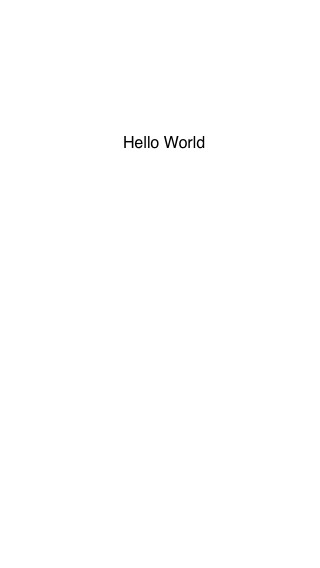
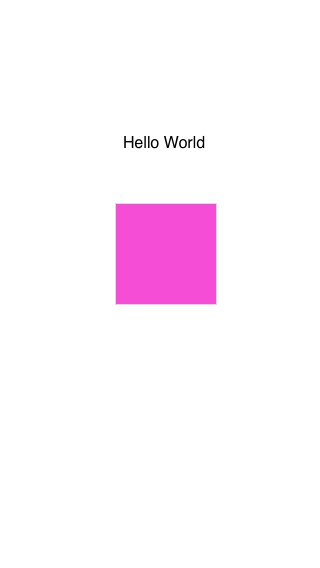
Index update

Changed region(s): [[0.3438, 0.3592, 0.6875, 0.5387]]

diff --git a/Index.hyperesources/index_hype_generated_script.js b/Index.hyperesources/index_hype_generated_script.js
@@ -2,5 +2,5 @@
 
 (function(){(function k(){var f="index.hyperesources",d="index",c="index_hype_container";if(false==!1)try{for(var g=document.getElementsByTagName("script"),a=0;a<g.length;a++){var b=g[a].src;if(null!=b&&-1!=b.indexOf("index_hype_generated_script.js")){f=b.substr(0,b.lastIndexOf("/"));break}}}catch(m){}if(false==!1&&null==window.HYPE_458)null==window.HYPE_dtl_458?(window.HYPE_dtl_458=[],window.HYPE_dtl_458.push(k),d=document.getElementsByTagName("head")[0],c=document.createElement("script"),
 a=navigator.userAgent.match(/MSIE (\d+\.\d+)/),a=parseFloat(a&&a[1])||null,c.type="text/javascript",c.src=f+"/"+(!0==(null!=a&&10>a||false==!0)?"HYPE-458.full.min.js":"HYPE-458.thin.min.js"),d.appendChild(c)):window.HYPE_dtl_458.push(k);else{window.HYPE_dtl_458=[];g=window.HYPE.documents;if(null!=g[d]){b=1;a=d;do d=""+a+"-"+b++;while(null!=g[d]);for(var e=document.getElementsByTagName("div"),b=!1,a=0;a<e.length;a++)if(e[a].id==c&&null==e[a].getAttribute("HYP_dn")){var b=
-1,h=c;do c=""+h+"-"+b++;while(null!=document.getElementById(c));e[a].id=c;b=!0;break}if(!1==b)return}b=[];b=[];e={};h={};for(a=0;a<b.length;a++)try{h[b[a].identifier]=b[a].name,e[b[a].name]=eval("(function(){return "+b[a].source+"})();")}catch(l){window.console&&window.console.log(l),e[b[a].name]=function(){}}f=new HYPE_458(d,c,{},f,[],e,[{n:"Untitled Scene",o:"1",X:[0]}],[{o:"5",p:"600px",x:0,cA:false,Z:568,Y:320,c:"#FFFFFF",L:[],bY:1,d:320,U:{},T:{kTimelineDefaultIdentifier:{i:"kTimelineDefaultIdentifier",n:"Main Timeline",z:0,b:[],a:[],f:30}},bZ:180,O:["7"],v:{"7":{aV:8,w:"Hello World",x:"visible",a:115,Z:"break-word",b:126,y:"preserve",j:"absolute",z:1,yy:"nowrap",s:"Helvetica,Arial,Sans-Serif",aT:8,k:"div",aS:8,t:16,r:"inline",aU:8,G:"#000000"}}}],{},h,{},
+1,h=c;do c=""+h+"-"+b++;while(null!=document.getElementById(c));e[a].id=c;b=!0;break}if(!1==b)return}b=[];b=[];e={};h={};for(a=0;a<b.length;a++)try{h[b[a].identifier]=b[a].name,e[b[a].name]=eval("(function(){return "+b[a].source+"})();")}catch(l){window.console&&window.console.log(l),e[b[a].name]=function(){}}f=new HYPE_458(d,c,{},f,[],e,[{n:"Untitled Scene",o:"1",X:[0]}],[{o:"5",p:"600px",x:0,cA:false,Z:568,Y:320,c:"#FFFFFF",L:[],bY:1,d:320,U:{},T:{kTimelineDefaultIdentifier:{i:"kTimelineDefaultIdentifier",n:"Main Timeline",z:0,b:[],a:[],f:30}},bZ:180,O:["9","8"],v:{"8":{aV:8,w:"Hello World",x:"visible",a:115,Z:"break-word",b:126,y:"preserve",j:"absolute",z:1,yy:"nowrap",s:"Helvetica,Arial,Sans-Serif",aT:8,k:"div",aS:8,t:16,r:"inline",aU:8,G:"#000000"},"9":{c:100,d:100,I:"Solid",J:"Solid",K:"Solid",g:"#F04BDD",L:"Solid",M:1,N:1,A:"#D8DDE4",x:"visible",j:"absolute",B:"#D8DDE4",P:1,k:"div",C:"#D8DDE4",z:2,O:1,D:"#D8DDE4",a:115,b:203}}}],{},h,{},
 0,false,false,true,-1,true,true,true);g[d]=f.API;document.getElementById(c).setAttribute("HYP_dn",d);f.z_o(this.body)}})();})();

diff --git a/index.html b/index.html
@@ -28,7 +28,7 @@
 	<!-- copy these lines to your document: -->
 
 	<div id="index_hype_container" style="margin:auto;position:relative;width:320px;height:568px;overflow:hidden;" aria-live="polite">
-		<script type="text/javascript" charset="utf-8" src="index.hyperesources/index_hype_generated_script.js?59099"></script>
+		<script type="text/javascript" charset="utf-8" src="index.hyperesources/index_hype_generated_script.js?65066"></script>
 	</div>
 
 	<!-- end copy -->
